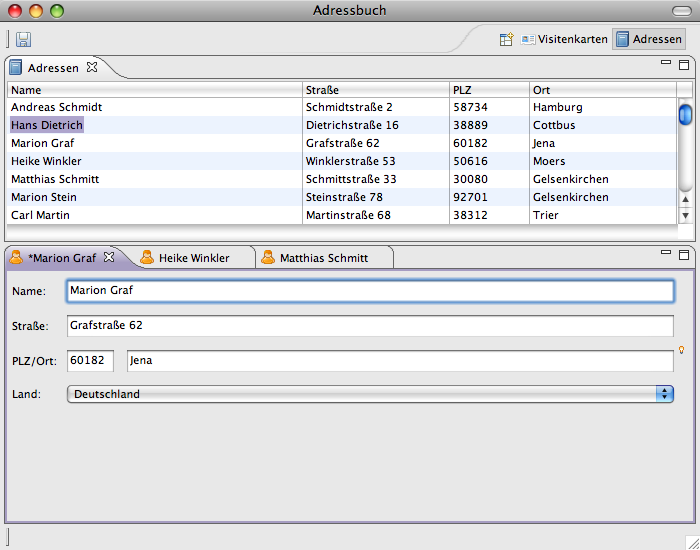
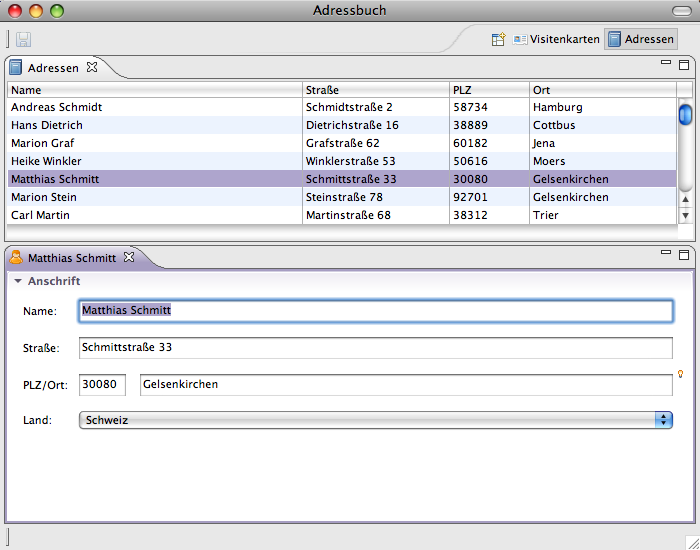
forms toolkit used for address editor

diff --git a/plugins/de.rcpbuch.addressbook.editor/src/de/rcpbuch/addressbook/editor/AddressEditorPart.java b/plugins/de.rcpbuch.addressbook.editor/src/de/rcpbuch/addressbook/editor/AddressEditorPart.java
@@ -5,6 +5,8 @@ import org.eclipse.jface.fieldassist.AutoCompleteField;
 import org.eclipse.jface.fieldassist.ControlDecoration;
 import org.eclipse.jface.fieldassist.FieldDecorationRegistry;
 import org.eclipse.jface.fieldassist.TextContentAdapter;
+import org.eclipse.jface.layout.GridDataFactory;
+import org.eclipse.jface.layout.GridLayoutFactory;
 import org.eclipse.jface.viewers.ArrayContentProvider;
 import org.eclipse.jface.viewers.ComboViewer;
 import org.eclipse.jface.viewers.ISelectionChangedListener;
@@ -15,16 +17,18 @@ import org.eclipse.swt.SWT;
 import org.eclipse.swt.events.ModifyEvent;
 import org.eclipse.swt.events.ModifyListener;
 import org.eclipse.swt.graphics.Image;
+import org.eclipse.swt.layout.FillLayout;
 import org.eclipse.swt.layout.GridData;
-import org.eclipse.swt.layout.GridLayout;
 import org.eclipse.swt.widgets.Composite;
-import org.eclipse.swt.widgets.Label;
 import org.eclipse.swt.widgets.Text;
 import org.eclipse.ui.IEditorInput;
 import org.eclipse.ui.IEditorPart;
 import org.eclipse.ui.IEditorSite;
 import org.eclipse.ui.PartInitException;
 import org.eclipse.ui.PlatformUI;
+import org.eclipse.ui.forms.widgets.FormToolkit;
+import org.eclipse.ui.forms.widgets.ScrolledForm;
+import org.eclipse.ui.forms.widgets.Section;
 import org.eclipse.ui.part.EditorPart;
 
 import de.rcpbuch.addressbook.entities.Address;
@@ -61,16 +65,23 @@ public class AddressEditorPart extends EditorPart {
 
 		PlatformUI.getWorkbench().getHelpSystem().setHelp(parent, IEditorHelpContexts.EDIT);
 
-		GridLayout layout = new GridLayout(2, false);
-		layout.marginRight = 10;
-		parent.setLayout(layout);
+		FormToolkit toolkit = new FormToolkit(parent.getDisplay());
+		final ScrolledForm form = toolkit.createScrolledForm(parent);
+		FillLayout layout = new FillLayout();
+		form.getBody().setLayout(layout);
+
+		Section section = toolkit.createSection(form.getBody(), Section.TWISTIE | Section.TITLE_BAR);
+		section.setText("Anschrift");
+
+		Composite client = toolkit.createComposite(section, SWT.WRAP);
+		GridLayoutFactory.fillDefaults().margins(10, 3).numColumns(3).applyTo(client);
+		section.setClient(client);
 
 		// NAME
-		final Label labelName = new Label(parent, SWT.NONE);
-		labelName.setText("Name:");
+		toolkit.createLabel(client, "Name:");
 
-		txtName = new Text(parent, SWT.BORDER);
-		txtName.setLayoutData(new GridData(SWT.FILL, SWT.TOP, true, false));
+		txtName = toolkit.createText(client, "");
+		GridDataFactory.fillDefaults().align(SWT.FILL, SWT.TOP).grab(true, false).span(2, 1).applyTo(txtName);
 
 		ModifyListener dirtyModifyListener = new ModifyListener() {
 
@@ -83,31 +94,21 @@ public class AddressEditorPart extends EditorPart {
 		txtName.addModifyListener(dirtyModifyListener);
 
 		// STRASSE
-		final Label labelStreet = new Label(parent, SWT.NONE);
-		labelStreet.setText("Straße:");
+		toolkit.createLabel(client, "Straße:");
 
-		txtStreet = new Text(parent, SWT.BORDER);
+		txtStreet = toolkit.createText(client, "");
 		txtStreet.setLayoutData(new GridData(SWT.FILL, SWT.TOP, true, false));
 		txtStreet.addModifyListener(dirtyModifyListener);
+		GridDataFactory.fillDefaults().align(SWT.FILL, SWT.TOP).grab(true, false).span(2, 1).applyTo(txtStreet);
 
 		// PLZ / ORT
-		final Label labelZipCity = new Label(parent, SWT.NONE);
-		labelZipCity.setText("PLZ/Ort:");
+		toolkit.createLabel(client, "PLZ/Ort:");
 
-		Composite zipCityComposite = new Composite(parent, SWT.NONE);
-		zipCityComposite.setLayoutData(new GridData(SWT.FILL, SWT.TOP, true, false));
-
-		GridLayout gridLayout = new GridLayout(2, false);
-		gridLayout.marginWidth = 0;
-		gridLayout.marginHeight = 0;
-		zipCityComposite.setLayout(gridLayout);
-
-		txtZip = new Text(zipCityComposite, SWT.BORDER);
-		txtZip.setLayoutData(new GridData(SWT.LEFT, SWT.TOP, false, false));
+		txtZip = toolkit.createText(client, "");
 		txtZip.addModifyListener(dirtyModifyListener);
 
-		txtCity = new Text(zipCityComposite, SWT.BORDER);
-		txtCity.setLayoutData(new GridData(SWT.FILL, SWT.TOP, true, false));
+		txtCity = toolkit.createText(client, "");
+		GridDataFactory.fillDefaults().align(SWT.FILL, SWT.TOP).grab(true, false).applyTo(txtCity);
 		txtCity.addModifyListener(dirtyModifyListener);
 
 		ControlDecoration decoration = new ControlDecoration(txtCity, SWT.RIGHT | SWT.TOP);
@@ -118,11 +119,11 @@ public class AddressEditorPart extends EditorPart {
 		new AutoCompleteField(txtCity, new TextContentAdapter(), AddressbookServices.getAddressService().getAllCities());
 
 		// LAND
-		final Label labelCountry = new Label(parent, SWT.NONE);
-		labelCountry.setText("Land:");
+		toolkit.createLabel(client, "Land:");
 
-		cvCountry = new ComboViewer(parent, SWT.READ_ONLY);
-		cvCountry.getCombo().setLayoutData(new GridData(SWT.FILL, SWT.TOP, true, false));
+		cvCountry = new ComboViewer(client, SWT.READ_ONLY);
+		GridDataFactory.fillDefaults().align(SWT.FILL, SWT.TOP).grab(true, false).span(2, 1).applyTo(
+				cvCountry.getCombo());
 		cvCountry.setContentProvider(new ArrayContentProvider());
 		cvCountry.setLabelProvider(new CountryLabelProvider());
 		cvCountry.setInput(AddressbookServices.getAddressService().getAllCountries());
@@ -135,6 +136,7 @@ public class AddressEditorPart extends EditorPart {
 		});
 
 		reload();
+		section.setExpanded(true);
 
 	}
 
